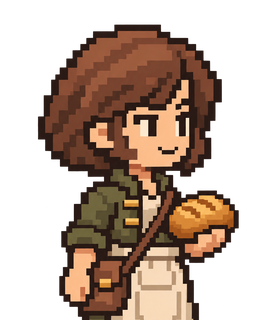
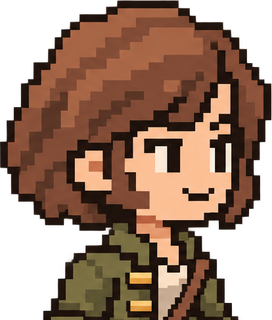
v413: Sara/woodcutter/Leena re-cropped (alpha-trim fix: sprites were ~15% too small), new matched chibi pair, woodcutter height 100%
Claude-Session: https://claude.ai/code/session_0198NdbC94DnEySZhrgfEgJ7

diff --git a/assets/story/chapter-1/story.css b/assets/story/chapter-1/story.css
@@ -119,4 +119,4 @@
 
 /* v407: คนตัดไม้ (ยืนต่อจากชาวนา) */
 #cs378.chapter-one-art .aw.woodcutter { margin-left: clamp(0px, 0.6vw, 10px); }
-#cs378.chapter-one-art .aw .actor.woodcutter { height: 96%; margin: 0; }
+#cs378.chapter-one-art .aw .actor.woodcutter { height: 100%; margin: 0; }
